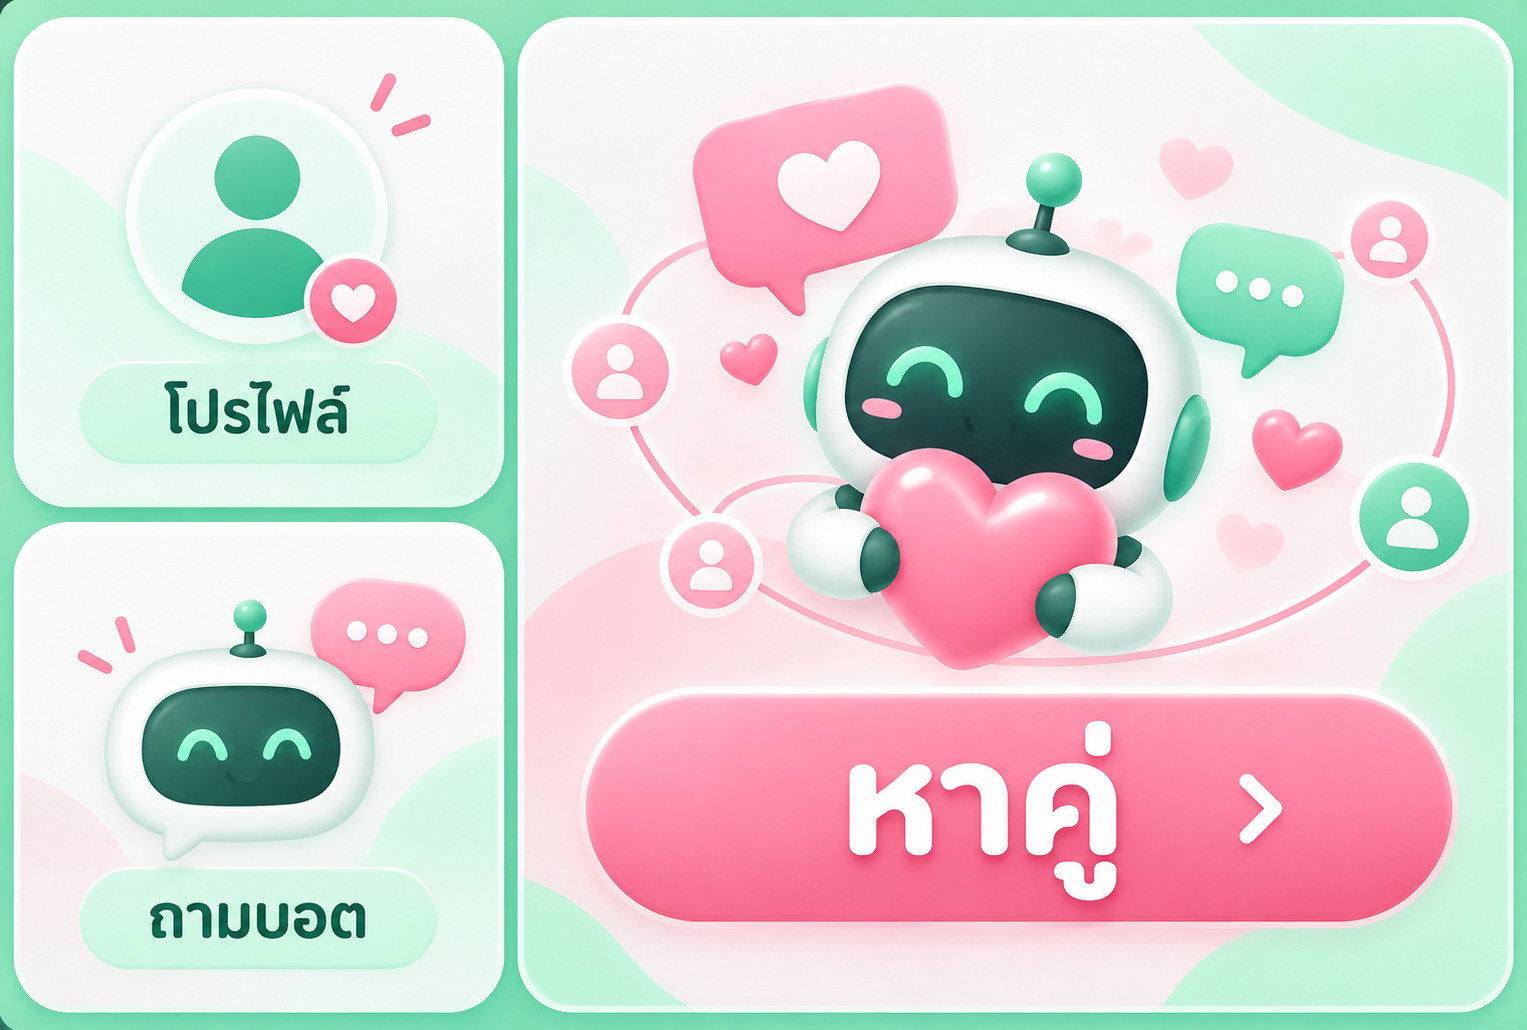
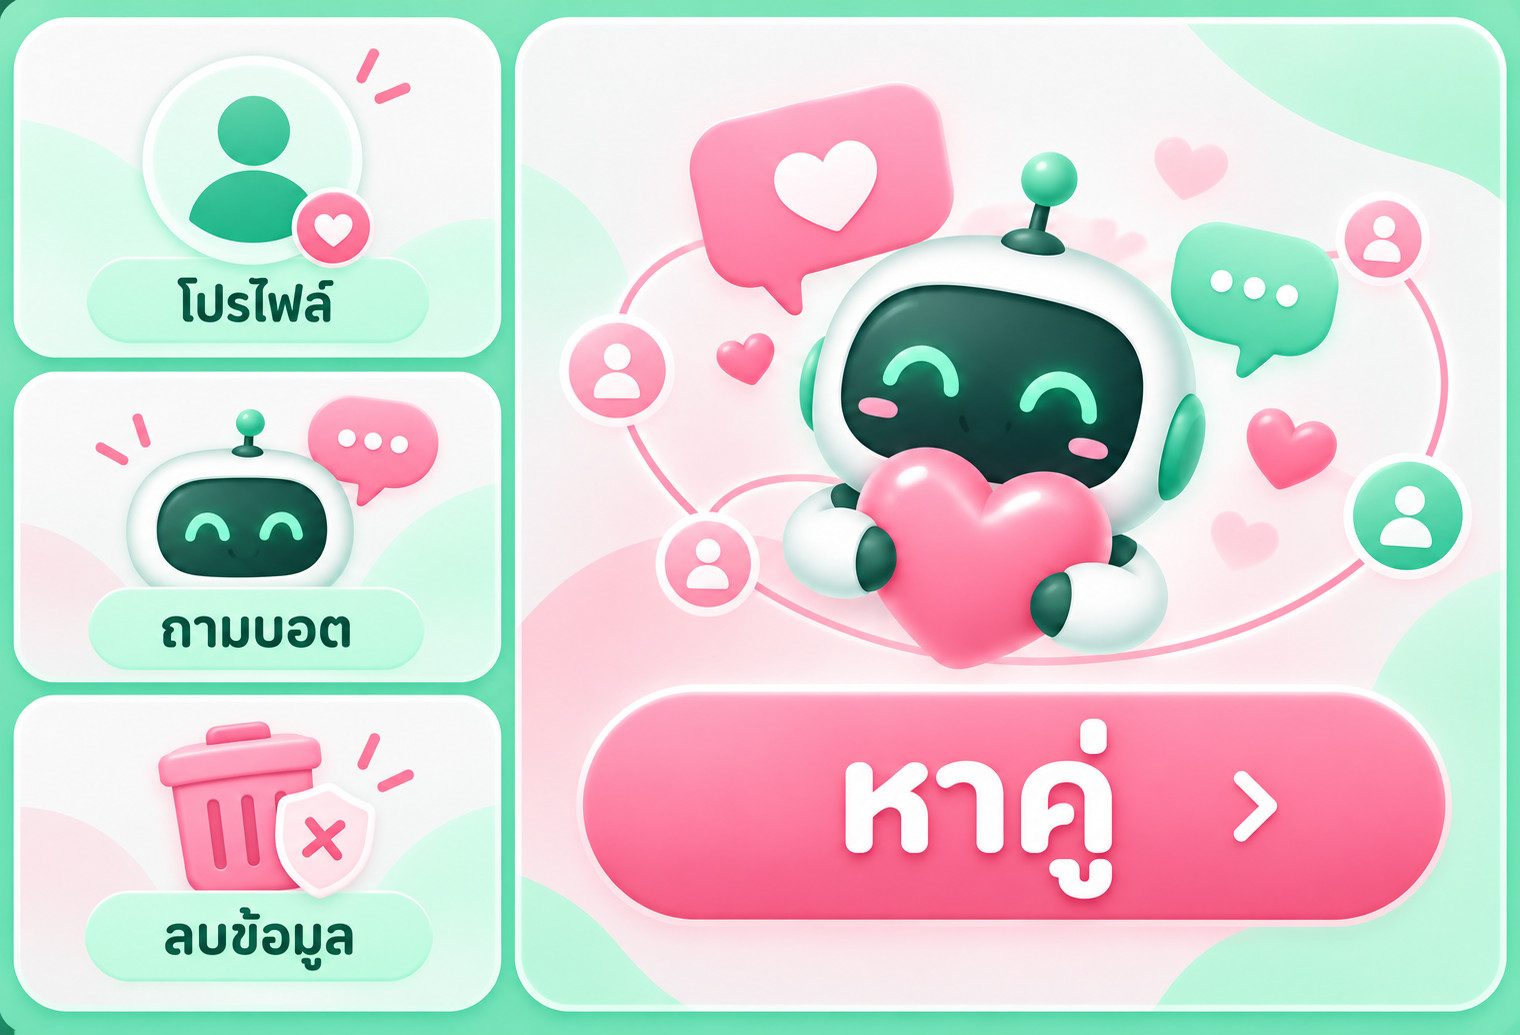
Use supplied four-action image for LINE rich menu

diff --git a/tests/test_rich_menu.py b/tests/test_rich_menu.py
@@ -1,4 +1,5 @@
 import unittest
+from pathlib import Path
 from unittest.mock import patch
 
 from app import handlers, intent, rich_menu
@@ -17,7 +18,30 @@ class RichMenuTests(unittest.TestCase):
                 self.assertTrue(a["x"] + a["width"] <= b["x"] or b["x"] + b["width"] <= a["x"]
                                 or a["y"] + a["height"] <= b["y"] or b["y"] + b["height"] <= a["y"])
         self.assertEqual(intent.classify(menu["areas"][0]["action"]["text"]), "show_profile")
-        self.assertEqual(intent.classify(menu["areas"][2]["action"]["text"]), "find_match")
+        self.assertEqual(menu["areas"][1]["action"]["text"], "ถามบอต")
+        self.assertEqual(menu["areas"][2]["action"]["data"], "action=delete_prompt")
+        self.assertEqual(intent.classify(menu["areas"][3]["action"]["text"]), "find_match")
+        image = Path(rich_menu.ASSETS / "menu.jpg").read_bytes()
+        self.assertTrue(image.startswith(b"\xff\xd8"))
+        self.assertLessEqual(len(image), 1_000_000)
+
+    def test_delete_menu_requires_confirmation(self):
+        user = {"user_id": "U1", "line_user_id": "L1", "state": "ready"}
+        def event(action):
+            return {"type": "postback", "source": {"userId": "L1"},
+                    "postback": {"data": f"action={action}"}}
+
+        with patch.object(handlers, "_user", return_value=user), \
+             patch.object(handlers.account, "delete", return_value=[{"type": "text", "text": "deleted"}]) as delete:
+            prompt = handlers.dispatch(event("delete_prompt"))[0]
+            self.assertIn("ยืนยัน", prompt["text"])
+            self.assertEqual([i["action"]["data"] for i in prompt["quickReply"]["items"]],
+                             ["action=delete_confirm", "action=delete_cancel"])
+            delete.assert_not_called()
+            self.assertIn("ยกเลิก", handlers.dispatch(event("delete_cancel"))[0]["text"])
+            delete.assert_not_called()
+            handlers.dispatch(event("delete_confirm"))
+            delete.assert_called_once_with(user)
 
     def test_bot_button_prompts_without_calling_model_or_saving_memory(self):
         event = {"type": "message", "source": {"userId": "L1"},

diff --git a/app/rich_menu.py b/app/rich_menu.py
@@ -14,16 +14,19 @@ DATA_API = "https://api-data.line.me/v2/bot"
 
 def definition():
     return {
-        "size": {"width": 1527, "height": 1030},
+        "size": {"width": 1520, "height": 1035},
         "selected": True,
-        "name": "PSU Dealing — โปรไฟล์ / ถามบอต / หาคู่",
+        "name": "PSU Dealing — โปรไฟล์ / ถามบอต / ลบข้อมูล / หาคู่",
         "chatBarText": "เมนู",
         "areas": [
-            {"bounds": {"x": 0, "y": 0, "width": 511, "height": 515},
+            {"bounds": {"x": 0, "y": 0, "width": 510, "height": 365},
              "action": {"type": "message", "label": "โปรไฟล์", "text": "โปรไฟล์ของฉัน"}},
-            {"bounds": {"x": 0, "y": 515, "width": 511, "height": 515},
+            {"bounds": {"x": 0, "y": 365, "width": 510, "height": 325},
              "action": {"type": "message", "label": "ถามบอต", "text": "ถามบอต"}},
-            {"bounds": {"x": 511, "y": 0, "width": 1016, "height": 1030},
+            {"bounds": {"x": 0, "y": 690, "width": 510, "height": 345},
+             "action": {"type": "postback", "label": "ลบข้อมูล", "data": "action=delete_prompt",
+                        "displayText": "ลบข้อมูล"}},
+            {"bounds": {"x": 510, "y": 0, "width": 1010, "height": 1035},
              "action": {"type": "message", "label": "หาคู่", "text": "หาคู่ให้หน่อย"}},
         ],
     }

diff --git a/app/handlers.py b/app/handlers.py
@@ -9,7 +9,7 @@ import threading
 from urllib.parse import parse_qs
 
 from . import conversation, intent, line_api, log, storage
-from .flex import MENU, text
+from .flex import MENU, postback_quick, text
 from .flows import account, advice, chat, intro, match, onboarding, unmatch
 
 ERROR_TEXT = "ขอโทษครับ ตอนนี้ระบบขัดข้องชั่วคราว 🙏 ลองพิมพ์ใหม่อีกครั้งได้ไหมครับ"
@@ -75,6 +75,13 @@ def _dispatch(event) -> list:
             return match.pass_(u, target)
         if act == "unmatch":
             return unmatch.ask_reason(u, target)
+        if act == "delete_prompt":
+            return [postback_quick("ต้องการลบข้อมูลทั้งหมดของคุณใช่ไหมครับ? การลบจะย้อนกลับไม่ได้ หากแน่ใจให้กดยืนยันลบข้อมูล",
+                                   [("ยืนยันลบข้อมูล", "action=delete_confirm"), ("ยกเลิก", "action=delete_cancel")])]
+        if act == "delete_confirm":
+            return account.delete(u)
+        if act == "delete_cancel":
+            return [text("ยกเลิกการลบข้อมูลแล้วครับ", MENU)]
         return []
     if etype == "message" and event["message"].get("type") == "text":
         msg = event["message"]["text"]

diff --git a/app/README.md b/app/README.md
@@ -139,11 +139,13 @@ LINE ID ที่ผู้ใช้ส่งมาไม่ถูกแสดง
 
 ## Rich Menu
 
-ภาพ `app/assets/rich_menu/menu.jpg` ใช้ภาพที่ให้มา แปลงเป็น JPEG 1527×1030 (ประมาณ 247 KB)
-ตาม [ข้อกำหนด LINE](https://developers.line.biz/en/reference/messaging-api/#upload-rich-menu-image)
-แบ่งพื้นที่ซ้ายบนเป็นโปรไฟล์ ซ้ายล่างเป็นถามบอต และด้านขวาเป็นหาคู่
+ภาพต้นฉบับอยู่ที่ `app/assets/rich_menu/menu-source.png`; ไฟล์ที่อัปโหลดคือ `menu.jpg`
+แปลงเป็น JPEG 1520×1035 (ประมาณ 236 KB) โดยคงภาพและข้อความเดิม
+ตาม [ข้อกำหนด LINE](https://developers.line.biz/en/reference/messaging-api/nojs/#upload-rich-menu-image)
+แบ่งพื้นที่ซ้ายสามช่องเป็นโปรไฟล์ / ถามบอต / ลบข้อมูล และด้านขวาเป็นหาคู่
 ปุ่มส่งข้อความเข้าระบบเดิม จึงยังเคารพขั้นตอน onboarding และสถานะที่ค้างอยู่
 ปุ่มถามบอตในสถานะ ready ชวนให้พิมพ์คำถาม โดยไม่เรียกโมเดลหรือเพิ่มข้อความเมนูลงความจำ
+ปุ่มลบข้อมูลเปิดข้อความยืนยันก่อน และลบจริงเมื่อกด “ยืนยันลบข้อมูล” เท่านั้น
 
 ตรวจ JSON โดยไม่เรียก API:
 
